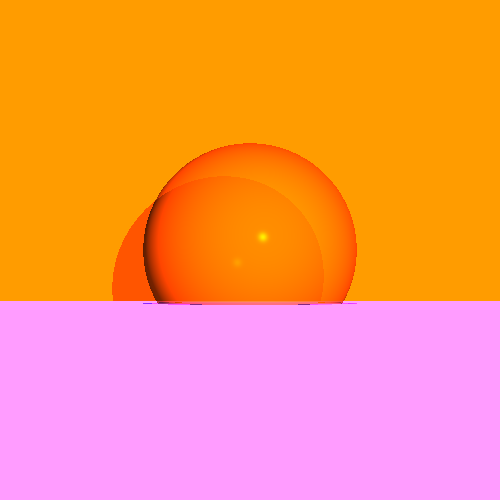
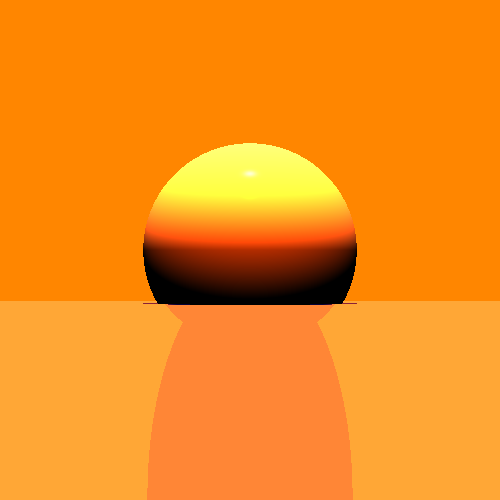
trying to create a picture

diff --git a/src/unittests/miniProject1.java b/src/unittests/miniProject1.java
@@ -31,23 +31,26 @@ public class miniProject1 {
         //creating the sunset
         //SUN
         scene1.geometries.add(
-        new Sphere(new Point(0,0,-250),40).setEmission(new Color(BLACK)).setMaterial(new Material().setKd(0.5).setKs(0.5).setnShininess(300).setKt(new Double3(0.5)).setKr(new Double3(0))));
-
+        new Sphere(new Point(0,0,-250),40).setEmission(new Color(BLACK)).setMaterial(new Material().setKd(0.5).setKs(0.5).setnShininess(300).setKt(new Double3(0)).setKr(new Double3(0))));
         //SKY
         Plane plane = new Plane(new Point(0, 0, -300), new Vector(0, 0, 1));
-        scene1.geometries.add(plane.setEmission(new Color(163,62,0)).setMaterial(new Material() .setKd(0.5).setKs(0.5).setnShininess(2000).setKt(new Double3(0)).setKr(new Double3(0))));
+        scene1.geometries.add(plane.setEmission(new Color(BLACK)).setMaterial(new Material() .setKd(1.5).setKs(1.5).setnShininess(300).setKt(new Double3(0)).setKr(new Double3(0))));
         //SEA
         Plane plane2=new Plane(new Point(0, -20, 0), new Vector(0, -40, 0));
-        scene1.geometries.add(plane2.setEmission( new Color(BLUE)).setMaterial(new Material() .setKr( new Double3(1))));
+        scene1.geometries.add(plane2.setEmission( new Color(5,0,54)).setMaterial(new Material().setKt(new Double3(0.5)) .setKr( new Double3(1))));
 
 
-//        scene1.getLights().add( //
-//                new SpotLight(new Color(2555, 510, 0), new Point(20, 100, 75), new Vector(-1, -1, -4)) //
-//                        .setkL(4E-4).setkQ(2E-5));
+        //light additions
+        scene1.getLights().add(new DirectionalLight(new Color(800,200,0), new Vector(0,-15,0)));
+        scene1.getLights().add(new DirectionalLight(new Color(800,500,250), new Vector(0,-15,0)));
+        scene1.getLights().add(new DirectionalLight(new Color(800,200,0), new Vector(0,-2,-1)));
+        scene1.getLights().add(new SpotLight(new Color(800, 200, 0), new Point(0, 40, 100), new Vector(0, 1, 4))
+                        .setkL(4E-4).setkQ(2E-5));
 
-        scene1.getLights().add(new DirectionalLight(new Color(800,200,0), new Vector(-1,-1,-4)));
 
 
+
+        //creating the picture
         ImageWriter imageWriter = new ImageWriter("trytopro", 500, 500);
         camera1.setImageWriter(imageWriter) //
                 .setRayTracer(new RayTracerBasic(scene1)) //
